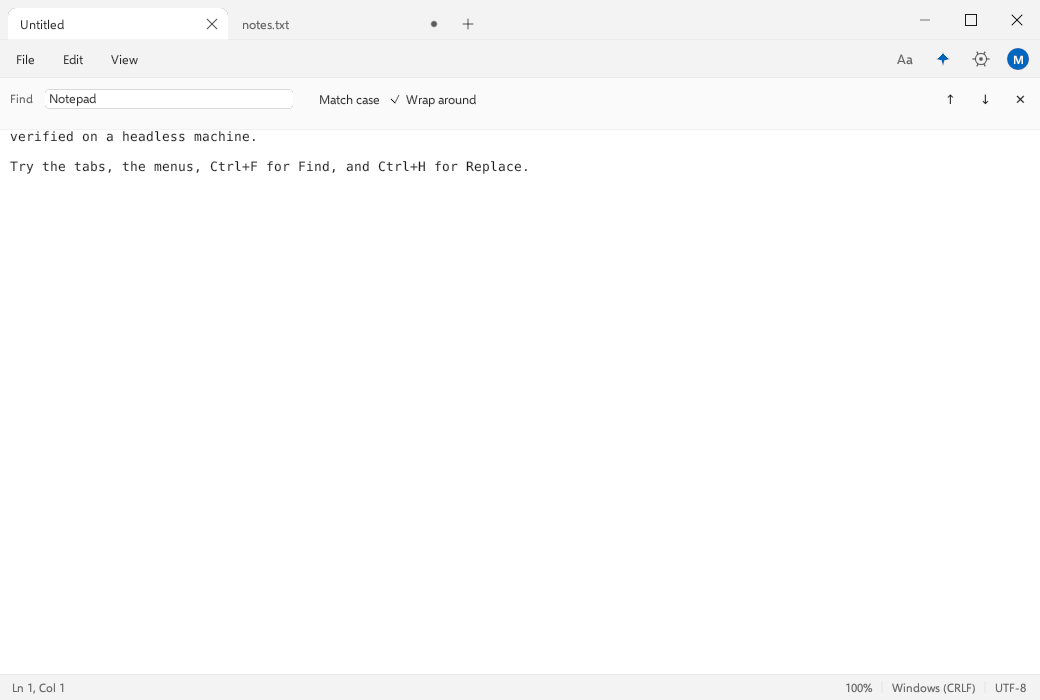
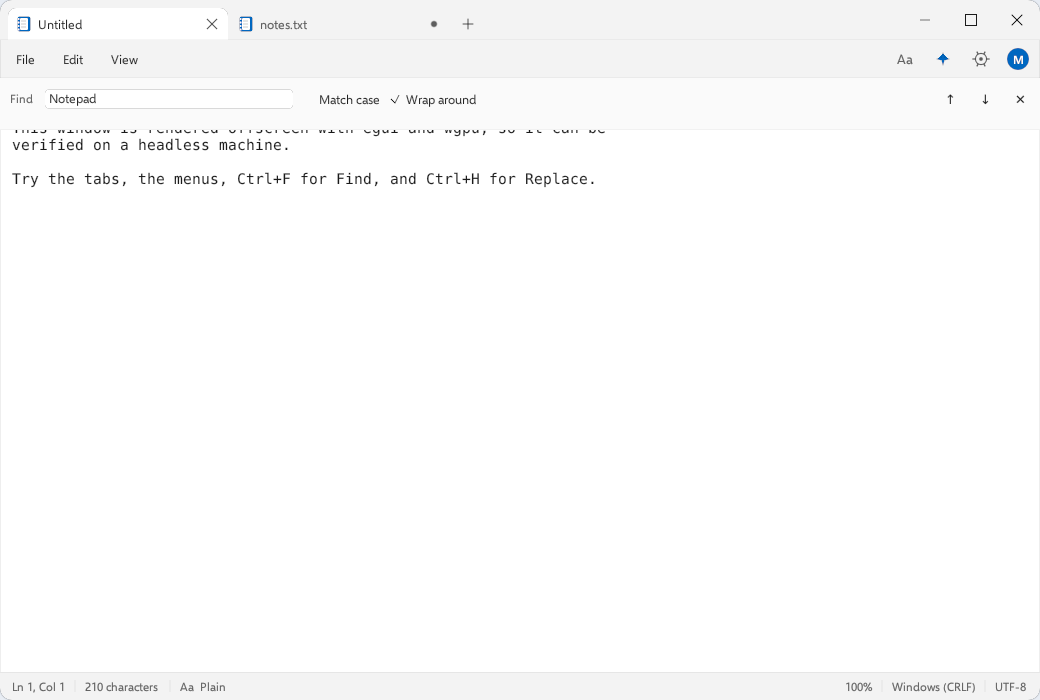
Polish the window chrome
- Transparent, rounded window (12 px) with a 1 px border drawn by the
  title and status panels, plus a View > Rounded corners toggle backed by
  ViewportCommand::Transparent.
- Default editor font raised to 15 px with 12 px side padding.
- Document icon on each tab.
- Status bar matches Notepad: Ln/Col, character count, Aa Plain.
- Larger status text and a 28 px status bar.

diff --git a/src/app.rs b/src/app.rs
@@ -86,6 +86,7 @@ pub enum Action {
     ToggleDark,
     ToggleStatus,
     ToggleTop,
+    ToggleRounded,
     Font,
     About,
     Minimize,
@@ -108,6 +109,7 @@ pub struct NotepadApp {
     pub find_visible: bool,
     pub dialog: Option<Dialog>,
     pub always_on_top: bool,
+    pub rounded: bool,
     pub status_msg: Option<String>,
     pub status_time: f64,
     pub cursor: (usize, usize),
@@ -128,11 +130,12 @@ impl NotepadApp {
             word_wrap: true,
             show_status: true,
             zoom: 1.0,
-            font_size: 13.0,
+            font_size: 15.0,
             find: FindState::default(),
             find_visible: false,
             dialog: None,
             always_on_top: false,
+            rounded: true,
             status_msg: None,
             status_time: 0.0,
             cursor: (1, 1),
@@ -262,6 +265,10 @@ impl NotepadApp {
                         egui::viewport::WindowLevel::Normal
                     }));
                 }
+                Action::ToggleRounded => {
+                    self.rounded = !self.rounded;
+                    ctx.send_viewport_cmd(ViewportCommand::Transparent(self.rounded));
+                }
                 Action::Font => self.dialog = Some(Dialog::Font),
                 Action::About => self.dialog = Some(Dialog::About),
                 Action::CloseFind => self.find_visible = false,
@@ -321,10 +328,23 @@ impl NotepadApp {
         let p = self.palette;
         egui::TopBottomPanel::top("title-bar")
             .exact_height(40.0)
-            .frame(Frame::none().fill(p.window))
+            .frame(Frame::none().fill(Color32::TRANSPARENT))
             .show(ctx, |ui| {
                 let rect = ui.max_rect();
                 let pointer = ui.input(|i| i.pointer.hover_pos());
+                let radius = if self.rounded { 12.0 } else { 0.0 };
+                let body = Rect::from_min_max(rect.min, Pos2::new(rect.right(), rect.bottom() + 1.0));
+                let rounding = Rounding {
+                    nw: radius,
+                    ne: radius,
+                    sw: 0.0,
+                    se: 0.0,
+                };
+                ui.painter().rect_filled(body, rounding, p.window);
+                if self.rounded {
+                    ui.painter()
+                        .rect_stroke(body, rounding, Stroke::new(1.0, p.stroke_strong));
+                }
 
                 let caption_w = 138.0;
                 let mut x = rect.left() + 8.0;
@@ -371,8 +391,13 @@ impl NotepadApp {
                     let title = self.docs[i].title();
                     let modified = self.docs[i].modified;
                     let text_color = if active { p.text } else { p.text_weak };
-                    let text_left = tab_rect.left() + 12.0;
+                    let text_left = tab_rect.left() + 30.0;
                     let text_right = tab_rect.right() - 30.0;
+                    let icon_rect = Rect::from_center_size(
+                        Pos2::new(tab_rect.left() + 16.0, tab_rect.center().y),
+                        Vec2::splat(14.0),
+                    );
+                    icons::notebook(ui, icon_rect, p.accent, p.text);
                     painter
                         .with_clip_rect(Rect::from_min_max(
                             Pos2::new(text_left, tab_rect.top()),
@@ -494,6 +519,7 @@ impl NotepadApp {
         let dark = self.dark;
         let status = self.show_status;
         let top = self.always_on_top;
+        let rounded = self.rounded;
 
         egui::TopBottomPanel::top("menu-bar")
             .exact_height(38.0)
@@ -646,6 +672,18 @@ impl NotepadApp {
                         }
                     });
                 });
+                if self.rounded {
+                    let rect = ui.max_rect();
+                    let stroke = Stroke::new(1.0, p.stroke_strong);
+                    ui.painter().line_segment(
+                        [Pos2::new(rect.left() + 0.5, rect.top()), Pos2::new(rect.left() + 0.5, rect.bottom())],
+                        stroke,
+                    );
+                    ui.painter().line_segment(
+                        [Pos2::new(rect.right() - 0.5, rect.top()), Pos2::new(rect.right() - 0.5, rect.bottom())],
+                        stroke,
+                    );
+                }
             });
     }
 
@@ -711,9 +749,9 @@ impl NotepadApp {
                         .text_color(p.text)
                         .frame(false)
                         .margin(Margin {
-                            left: 10.0,
-                            right: 10.0,
-                            top: 6.0,
+                            left: 12.0,
+                            right: 12.0,
+                            top: 8.0,
                             bottom: 24.0,
                         })
                         .desired_width(width)
@@ -732,7 +770,21 @@ impl NotepadApp {
                 if output.inner.response.clicked() {
                     output.inner.response.request_focus();
                 }
+                if self.rounded {
+                    let full = ui.max_rect();
+                    let stroke = Stroke::new(1.0, p.stroke_strong);
+                    ui.painter().line_segment(
+                        [Pos2::new(full.left() + 0.5, full.top()), Pos2::new(full.left() + 0.5, full.bottom())],
+                        stroke,
+                    );
+                    ui.painter().line_segment(
+                        [Pos2::new(full.right() - 0.5, full.top()), Pos2::new(full.right() - 0.5, full.bottom())],
+                        stroke,
+                    );
+                }
             });
+
+
 
         self.cursor = cursor;
     }
@@ -745,17 +797,74 @@ impl NotepadApp {
         let zoom = (self.zoom * 100.0).round() as i32;
         let eol = self.docs[self.doc_index()].eol;
 
+        let characters = self.docs[self.doc_index()].text.chars().count();
         egui::TopBottomPanel::bottom("status-bar")
-            .exact_height(26.0)
-            .frame(Frame::none().fill(p.window).stroke(Stroke::new(1.0, p.stroke)))
+            .exact_height(28.0)
+            .frame(Frame::none().fill(Color32::TRANSPARENT))
             .show(ctx, |ui| {
                 let rect = ui.max_rect();
+                let radius = if self.rounded { 12.0 } else { 0.0 };
+                let rounding = Rounding {
+                    nw: 0.0,
+                    ne: 0.0,
+                    sw: radius,
+                    se: radius,
+                };
+                ui.painter().rect_filled(rect, rounding, p.window);
+                ui.painter().line_segment(
+                    [rect.left_top(), rect.right_top()],
+                    Stroke::new(1.0, p.stroke),
+                );
+                if self.rounded {
+                    ui.painter()
+                        .rect_stroke(rect, rounding, Stroke::new(1.0, p.stroke_strong));
+                }
                 let painter = ui.painter();
+                let cursor_text = format!("Ln {line}, Col {col}");
                 painter.text(
                     Pos2::new(rect.left() + 12.0, rect.center().y),
                     Align2::LEFT_CENTER,
-                    format!("Ln {line}, Col {col}"),
-                    FontId::proportional(11.5),
+                    &cursor_text,
+                    FontId::proportional(12.0),
+                    p.text_weak,
+                );
+                let cursor_w = painter
+                    .layout_no_wrap(cursor_text, FontId::proportional(12.0), p.text_weak)
+                    .size()
+                    .x;
+                let sep_x = rect.left() + 12.0 + cursor_w + 10.0;
+                painter.line_segment(
+                    [
+                        Pos2::new(sep_x, rect.center().y - 6.0),
+                        Pos2::new(sep_x, rect.center().y + 6.0),
+                    ],
+                    Stroke::new(1.0, p.stroke_strong),
+                );
+                let chars_text = format!("{characters} characters");
+                let chars_w = painter
+                    .layout_no_wrap(chars_text.clone(), FontId::proportional(12.0), p.text_weak)
+                    .size()
+                    .x;
+                painter.text(
+                    Pos2::new(sep_x + 10.0, rect.center().y),
+                    Align2::LEFT_CENTER,
+                    &chars_text,
+                    FontId::proportional(12.0),
+                    p.text_weak,
+                );
+                let plain_sep = sep_x + 10.0 + chars_w + 12.0;
+                painter.line_segment(
+                    [
+                        Pos2::new(plain_sep, rect.center().y - 6.0),
+                        Pos2::new(plain_sep, rect.center().y + 6.0),
+                    ],
+                    Stroke::new(1.0, p.stroke_strong),
+                );
+                painter.text(
+                    Pos2::new(plain_sep + 10.0, rect.center().y),
+                    Align2::LEFT_CENTER,
+                    "Aa  Plain",
+                    FontId::proportional(12.0),
                     p.text_weak,
                 );
 

diff --git a/src/bin/shot.rs b/src/bin/shot.rs
@@ -230,11 +230,10 @@ fn main() {
                 view: &view,
                 resolve_target: None,
                 ops: wgpu::Operations {
-                    load: wgpu::LoadOp::Clear(wgpu::Color {
-                        r: 0.95,
-                        g: 0.95,
-                        b: 0.95,
-                        a: 1.0,
+                    load: wgpu::LoadOp::Clear(if dark {
+                        wgpu::Color { r: 0.09, g: 0.10, b: 0.13, a: 1.0 }
+                    } else {
+                        wgpu::Color { r: 0.80, g: 0.84, b: 0.90, a: 1.0 }
                     }),
                     store: wgpu::StoreOp::Store,
                 },

diff --git a/src/icons.rs b/src/icons.rs
@@ -97,7 +97,7 @@ pub fn restore(ui: &mut Ui, center: Pos2, color: Color32) {
 }
 
 /// A 16x16 notebook mark for the tab strip.
-pub fn notebook(ui: &mut Ui, rect: Rect, accent: Color32, text: Color32) {
+pub fn notebook(ui: &Ui, rect: Rect, accent: Color32, text: Color32) {
     let p = ui.painter();
     let body = Rect::from_center_size(rect.center(), Vec2::new(13.0, 15.0));
     p.rect_filled(body, 2.0, accent);

diff --git a/src/main.rs b/src/main.rs
@@ -33,6 +33,7 @@ fn main() -> eframe::Result<()> {
             .with_inner_size([1040.0, 700.0])
             .with_min_inner_size([640.0, 420.0])
             .with_decorations(false)
+            .with_transparent(true)
             .with_title("Elevenpad"),
         renderer: eframe::Renderer::Wgpu,
         ..Default::default()

diff --git a/README.md b/README.md
@@ -14,8 +14,8 @@
   <a href="https://github.com/emilk/egui"><img src="https://img.shields.io/badge/UI-egui-3b6ea5" alt="egui"></a>
   <img src="https://img.shields.io/badge/platform-Linux-1793d1?logo=linux&logoColor=white" alt="Linux">
   <a href="LICENSE"><img src="https://img.shields.io/badge/license-MIT-2ea44f" alt="MIT"></a>
-  <a href="https://github.com/tobioffice/elevenpad/releases"><img src="https://img.shields.io/github/v/release/tobioffice/elevenpad?color=0078d4&cache=6" alt="Release"></a>
-  <a href="https://github.com/tobioffice/elevenpad/releases"><img src="https://img.shields.io/github/downloads/tobioffice/elevenpad/total?color=0078d4&cache=6" alt="Downloads"></a>
+  <a href="https://github.com/tobioffice/elevenpad/releases"><img src="https://img.shields.io/github/v/release/tobioffice/elevenpad?color=0078d4&cache=7" alt="Release"></a>
+  <a href="https://github.com/tobioffice/elevenpad/releases"><img src="https://img.shields.io/github/downloads/tobioffice/elevenpad/total?color=0078d4&cache=7" alt="Downloads"></a>
 </p>
 
 <p align="center">
@@ -47,7 +47,7 @@ without Electron, GTK, Qt or a web view.
 | **Navigation** | Go to line, line and column readout in the status bar |
 | **View** | Word wrap, zoom from 20% to 500% with Ctrl and mouse wheel, status bar toggle, always on top |
 | **Files** | CRLF and LF preserved on save, UTF-8 BOM detection, drag and drop to open, Windows 11 style dialogs that hide dot folders by default with a Show hidden items toggle |
-| **Window** | Native edge and corner resizing, title bar dragging, double click to maximize, custom caption buttons |
+| **Window** | Rounded window corners with a toggle, native edge and corner resizing, title bar dragging, double click to maximize, custom caption buttons |
 | **Themes** | Light and dark palettes matching Windows 11 chrome colors |
 | **Text** | Selawik, metric compatible with Segoe UI, and DejaVu Sans Mono for the editor |
 | **Code** | Lightweight syntax highlighting for Rust, Python, JavaScript, TypeScript, C, C++, Go, Java, JSON, TOML, YAML, shell and SQL |
@@ -58,23 +58,23 @@ without Electron, GTK, Qt or a web view.
 ### AppImage (recommended)
 
 ```bash
-curl -LO https://github.com/tobioffice/elevenpad/releases/latest/download/Elevenpad-0.3.3-x86_64.AppImage
-chmod +x Elevenpad-0.3.3-x86_64.AppImage
-./Elevenpad-0.3.3-x86_64.AppImage
+curl -LO https://github.com/tobioffice/elevenpad/releases/latest/download/Elevenpad-0.4.0-x86_64.AppImage
+chmod +x Elevenpad-0.4.0-x86_64.AppImage
+./Elevenpad-0.4.0-x86_64.AppImage
 ```
 
 If FUSE 2 is not installed:
 
 ```bash
-./Elevenpad-0.3.3-x86_64.AppImage --appimage-extract-and-run
+./Elevenpad-0.4.0-x86_64.AppImage --appimage-extract-and-run
 ```
 
 ### Tarball
 
 ```bash
-curl -LO https://github.com/tobioffice/elevenpad/releases/latest/download/Elevenpad-0.3.3-linux-x86_64.tar.gz
-tar xzf Elevenpad-0.3.3-linux-x86_64.tar.gz
-cd elevenpad-0.3.3
+curl -LO https://github.com/tobioffice/elevenpad/releases/latest/download/Elevenpad-0.4.0-linux-x86_64.tar.gz
+tar xzf Elevenpad-0.4.0-linux-x86_64.tar.gz
+cd elevenpad-0.4.0
 ./install.sh          # installs to ~/.local/bin, no root needed
 elevenpad
 ```
